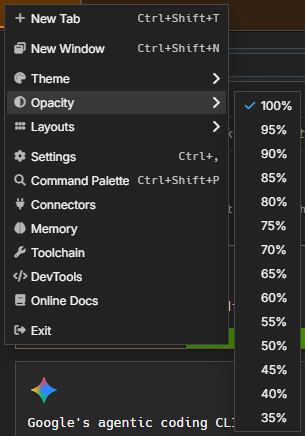
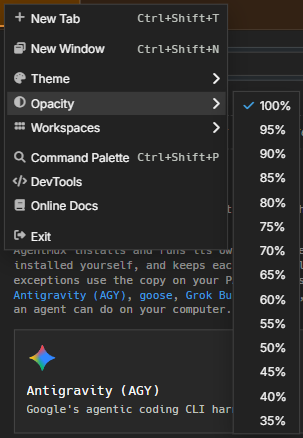
docs: retake the chrome screenshots for the new menu, widget bar pins and workspace window list
The hamburger menu (and its Theme and Opacity shots) now shows Workspaces
instead of Layouts and no Settings, Connectors, Memory or Toolchain; the top
bar, the More list and the window shot show the new default pins; the
instance panel shows the workspace heading with two open windows and a closed
one. Adds the Workspaces submenu shot to Workspaces and Main menu, removes the
unused Layouts submenu shot, and updates the alt text to match. The instance
panel's maintenance section is the update check now, not migrations and
vacuum.

Agent: agentx@narko

diff --git a/src/content/docs/window.md b/src/content/docs/window.md
@@ -13,7 +13,7 @@ An AgentMux window has three parts: the **top bar**, the **panes** of the curren
 
 ## Top bar
 
-![The top bar: the hamburger menu, a window tab, the widget bar and the window buttons](../../assets/screenshots/chrome/chrome-top-bar.png)
+![The top bar: the hamburger menu, a window tab, the widget bar (Agent, Swarm, Memory, Connectors, Hangar, Browser, Settings, Help and more) and the window buttons](../../assets/screenshots/chrome/chrome-top-bar.png)
 
 From left to right:
 
@@ -26,7 +26,7 @@ From left to right:
 
 Hover **more** (or click it) to list the widgets that aren't pinned to the bar. Click one to open it.
 
-![The More list open under the widget bar, listing widgets that aren't pinned](../../assets/screenshots/chrome/chrome-more-dropdown.png)
+![The More list open under the widget bar, listing the widgets that aren't pinned: Kanban, Terminal, Editor, Messengers, Sysinfo, Drone, Warden, Vault, Toolchain and Tower](../../assets/screenshots/chrome/chrome-more-dropdown.png)
 
 ### A tab's menu
 
@@ -99,7 +99,7 @@ This computer: its OS, address, the backend's process id, and the version's data
 
 ### Instance panel
 
-This AgentMux instance: its version, channel, commit, CEF version, runtime and build time (each with a copy button), the windows of the open [workspace](/workspaces/), its floating panes, and maintenance (database migrations and vacuum). **Open another window** opens a new window in the workspace.
+This AgentMux instance: its version, channel, commit, CEF version, runtime and build time (each with a copy button), the windows of the open [workspace](/workspaces/), its floating panes, and maintenance (whether this version is up to date, with **Check for update**). **Open another window** opens a new window in the workspace.
 
 The window list is headed by the workspace's name and how many windows it has ("Default Workspace — 3 windows"); double-click the heading, or press `F2` on it, to rename the workspace. Below it:
 
@@ -108,7 +108,7 @@ The window list is headed by the workspace's name and how many windows it has ("
 
 Closing a window keeps it in the workspace as a closed window (see [Workspaces](/workspaces/#windows-in-a-workspace)). See [Window appearance](/window-appearance/) for the opacity slider and [Report issues](/report-issues/) for what to copy into a bug report.
 
-![The instance panel: version, channel, commit, CEF, runtime and build time; this process's window with its opacity slider; floating panes; maintenance; and Open another window](../../assets/screenshots/chrome/chrome-status-instance.png)
+![The instance panel: version, channel, commit, CEF, runtime and build time; the Default Workspace's 3 windows, Window 1 (this window) and Window 2 open, each with its opacity slider and trash button, and a closed window, greyed, with when it closed and Reopen; floating panes; maintenance with Check for update; and Open another window](../../assets/screenshots/chrome/chrome-status-instance.png)
 
 ## See also
 

diff --git a/src/content/docs/installation.md b/src/content/docs/installation.md
@@ -152,11 +152,11 @@ New windows start with the same layout (`crates/srv/src/backend/wcore/mod.rs`, `
 
 The **widget bar** at the top right opens panes. By default it pins **Agent**, **Swarm**, **Memory**, **Connectors**, **Hangar**, **Browser**, **Settings** and **Help**, in that order (`crates/srv/src/config/widgets.json`). The rest are under **more**: Kanban, Terminal, Editor, Messengers, Sysinfo, Drone, Warden, Vault, Toolchain and Tower. Right-click a widget to pin it to the bar or unpin it. As the title bar gets narrower, the bar first drops its labels and then moves widgets that no longer fit under **more**.
 
-![The top bar: the hamburger menu, a window tab, the widget bar and the window buttons](../../assets/screenshots/chrome/chrome-top-bar.png)
+![The top bar: the hamburger menu, a window tab, the widget bar (Agent, Swarm, Memory, Connectors, Hangar, Browser, Settings, Help and more) and the window buttons](../../assets/screenshots/chrome/chrome-top-bar.png)
 
 The **hamburger menu (≡)** has New Tab, New Window, Theme, Opacity, Workspaces (**New Workspace…**, **Open Workspace**, **Import…**, **Export…**, **Rename workspace…**, **Delete workspace…**; see [Workspaces](/workspaces/)), Command Palette, DevTools, Online Docs and Exit (`frontend/app/window/hamburger-menu.tsx`). Settings, Connectors, Memory and Toolchain open from the widget bar and the command palette.
 
-![The hamburger menu open: New Tab, New Window, Theme, Opacity, Layouts, Command Palette, DevTools, Online Docs and Exit](../../assets/screenshots/chrome/chrome-hamburger-menu.png)
+![The hamburger menu open: New Tab, New Window, Theme, Opacity, Workspaces, Command Palette, DevTools, Online Docs and Exit](../../assets/screenshots/chrome/chrome-hamburger-menu.png)
 
 Agents need their CLI tools, and most of those need Node.js and npm. The Toolchain pane (the widget bar's **more** → **Toolchain**, or **Open Toolchain** in the command palette) shows what AgentMux can find: Node.js, npm, Git, Python, and the optional Docker and uv, plus every agent CLI, each with its version, path and status. For a missing Git, Node.js, npm or Python it offers **or install it now**, which installs through winget on Windows or Homebrew on macOS (if you have them), or through your distribution's package manager on Linux (for example apt-get, dnf, pacman or zypper, elevated through `pkexec`). The same option appears in the prompt AgentMux shows when you pick an agent whose required tools are missing.
 

diff --git a/src/content/docs/main-menu.md b/src/content/docs/main-menu.md
@@ -12,7 +12,7 @@ AgentMux groups global actions into two surfaces:
 
 Click the three-line icon at the start of the tab bar. Items, top to bottom:
 
-![The hamburger menu open: New Tab, New Window, Theme, Opacity, Layouts, Command Palette, DevTools, Online Docs and Exit](../../assets/screenshots/chrome/chrome-hamburger-menu.png)
+![The hamburger menu open: New Tab, New Window, Theme, Opacity, Workspaces, Command Palette, DevTools, Online Docs and Exit](../../assets/screenshots/chrome/chrome-hamburger-menu.png)
 
 | Item | Shortcut | What it does |
 |------|---------|--------------|
@@ -33,6 +33,8 @@ Settings, Connectors, Memory and Toolchain aren't in this menu. Open them from t
 The Theme and Opacity submenus check-mark this window's current value, so you can see at a glance what you're on. A submenu opens when you hover its row.
 
 ![The Theme submenu: the dark themes, then the light ones, with the current theme checked](../../assets/screenshots/chrome/chrome-hamburger-theme.png)
+
+![The hamburger menu with its Workspaces submenu open: New Workspace…, Open Workspace, Import…, Export…, Rename workspace… and Delete workspace…](../../assets/screenshots/chrome/chrome-hamburger-workspaces.png)
 
 ## Reopening your windows at the next launch
 

diff --git a/src/content/docs/window-appearance.md b/src/content/docs/window-appearance.md
@@ -28,7 +28,7 @@ There is one opacity per window. You can set it from two places, and they show t
 
 ![The hamburger menu's Opacity submenu: 100% down to 35% in 5% steps, the current value checked](../../assets/screenshots/chrome/chrome-hamburger-opacity.png)
 
-![The Instance Panel, with Window 1 and its opacity slider at 100% under This process](../../assets/screenshots/chrome/chrome-status-instance.png)
+![The Instance Panel, with Window 1 and Window 2 each at 100% on their opacity sliders under Default Workspace, and a closed window below them](../../assets/screenshots/chrome/chrome-status-instance.png)
 
 A choice in the menu moves the slider, and dragging the slider moves the menu's checkmark. A value between two steps, such as 72%, checks the nearest step (70%). The Instance Panel lists every open window, so you can also set another window's opacity from there.
 

diff --git a/src/content/docs/workspaces.md b/src/content/docs/workspaces.md
@@ -59,6 +59,8 @@ Tick **Don't ask again**, or turn off **Warn before closing a window with workin
 
 ☰ → **Workspaces**:
 
+![The hamburger menu with its Workspaces submenu open: New Workspace…, Open Workspace, Import…, Export…, Rename workspace… and Delete workspace…](../../assets/screenshots/chrome/chrome-hamburger-workspaces.png)
+
 | Item | What it does |
 |---|---|
 | **New Workspace…** | Asks for a name, suggesting the first free "Workspace 2", "Workspace 3", …, then [switches](#switching-workspaces) to a new workspace with one window showing the starting panes. |
